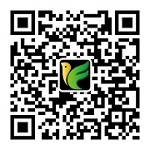
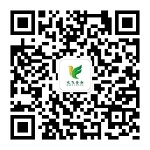
修改share页面的二维码图片

diff --git a/assets/css/app.css b/assets/css/app.css
@@ -75,19 +75,6 @@
     color:#fff;
     display: block;
 }
-.c-footer li:nth-child(1) a{
-    height: 20px;
-    border-right:1px solid #7eb027;
-}
-.c-footer li:nth-child(2) a,.c-footer li:nth-child(3) a{
-    height: 20px;
-    border-right:1px solid #7eb027;
-    border-left:1px solid #1f3d05;
-}
-.c-footer li:nth-child(4) a{
-    height: 20px;
-    border-left:1px solid #1f3d05;
-}
 .c-a-return {
     position: absolute;
     left: 0px;
